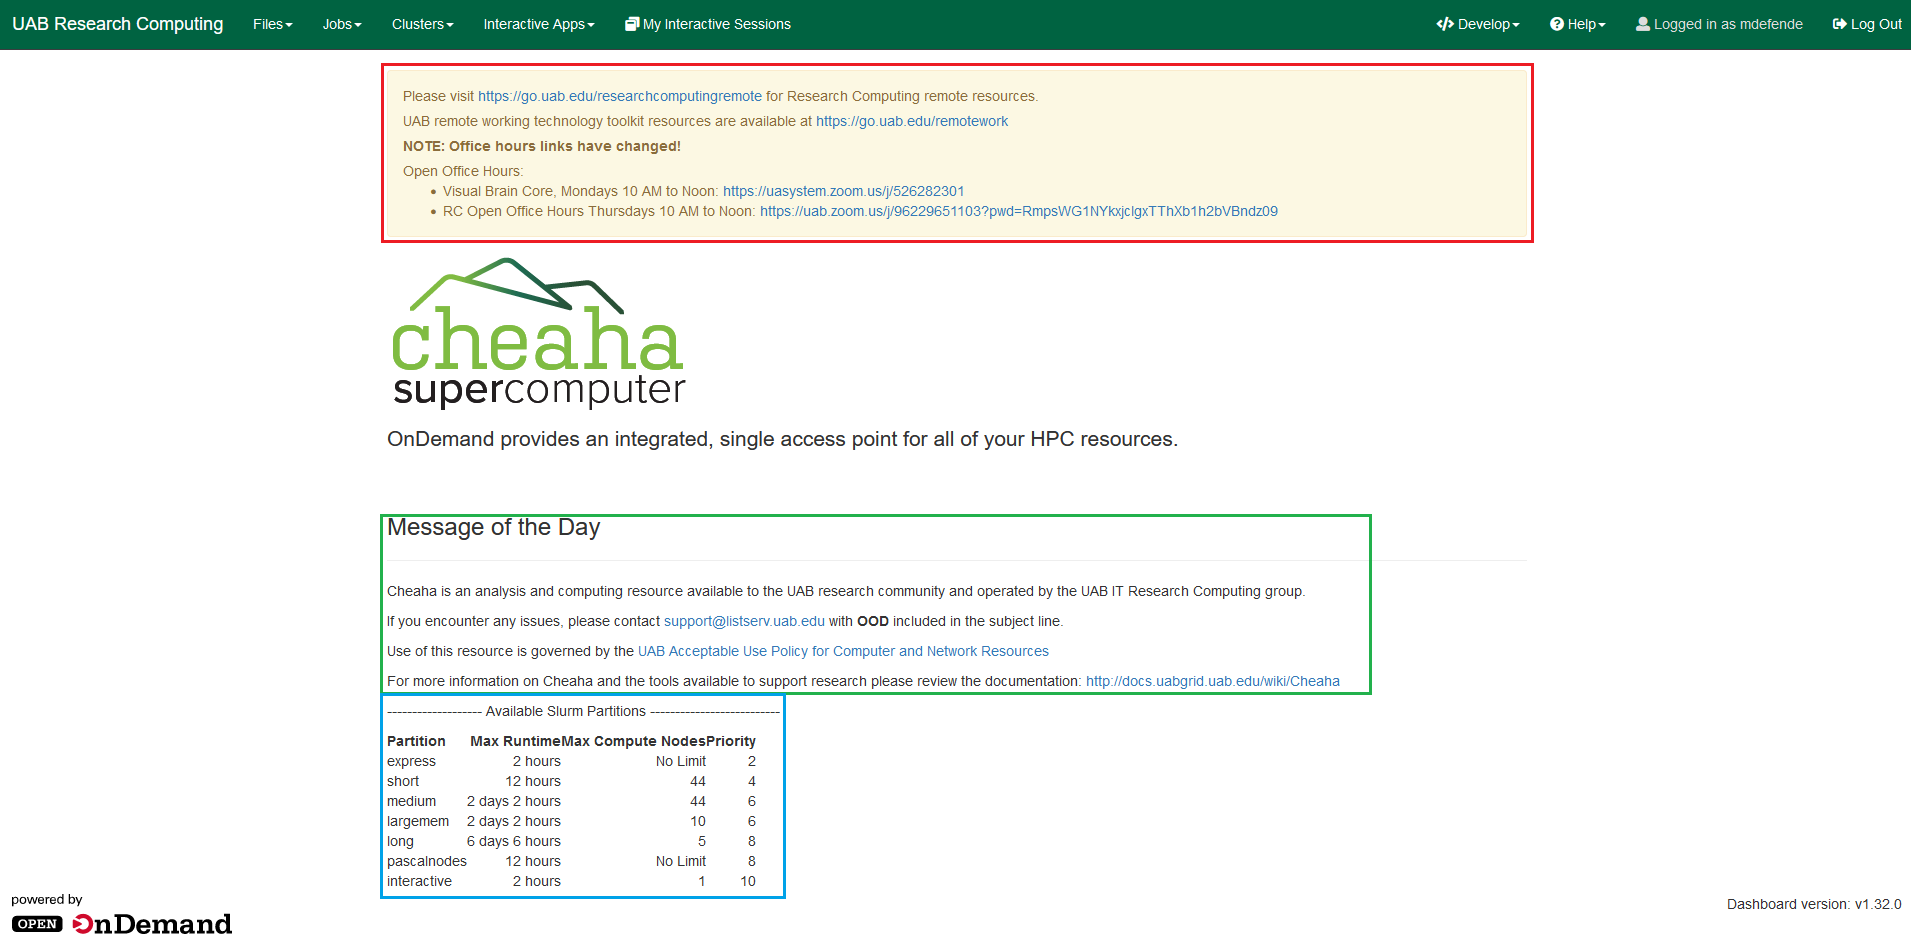
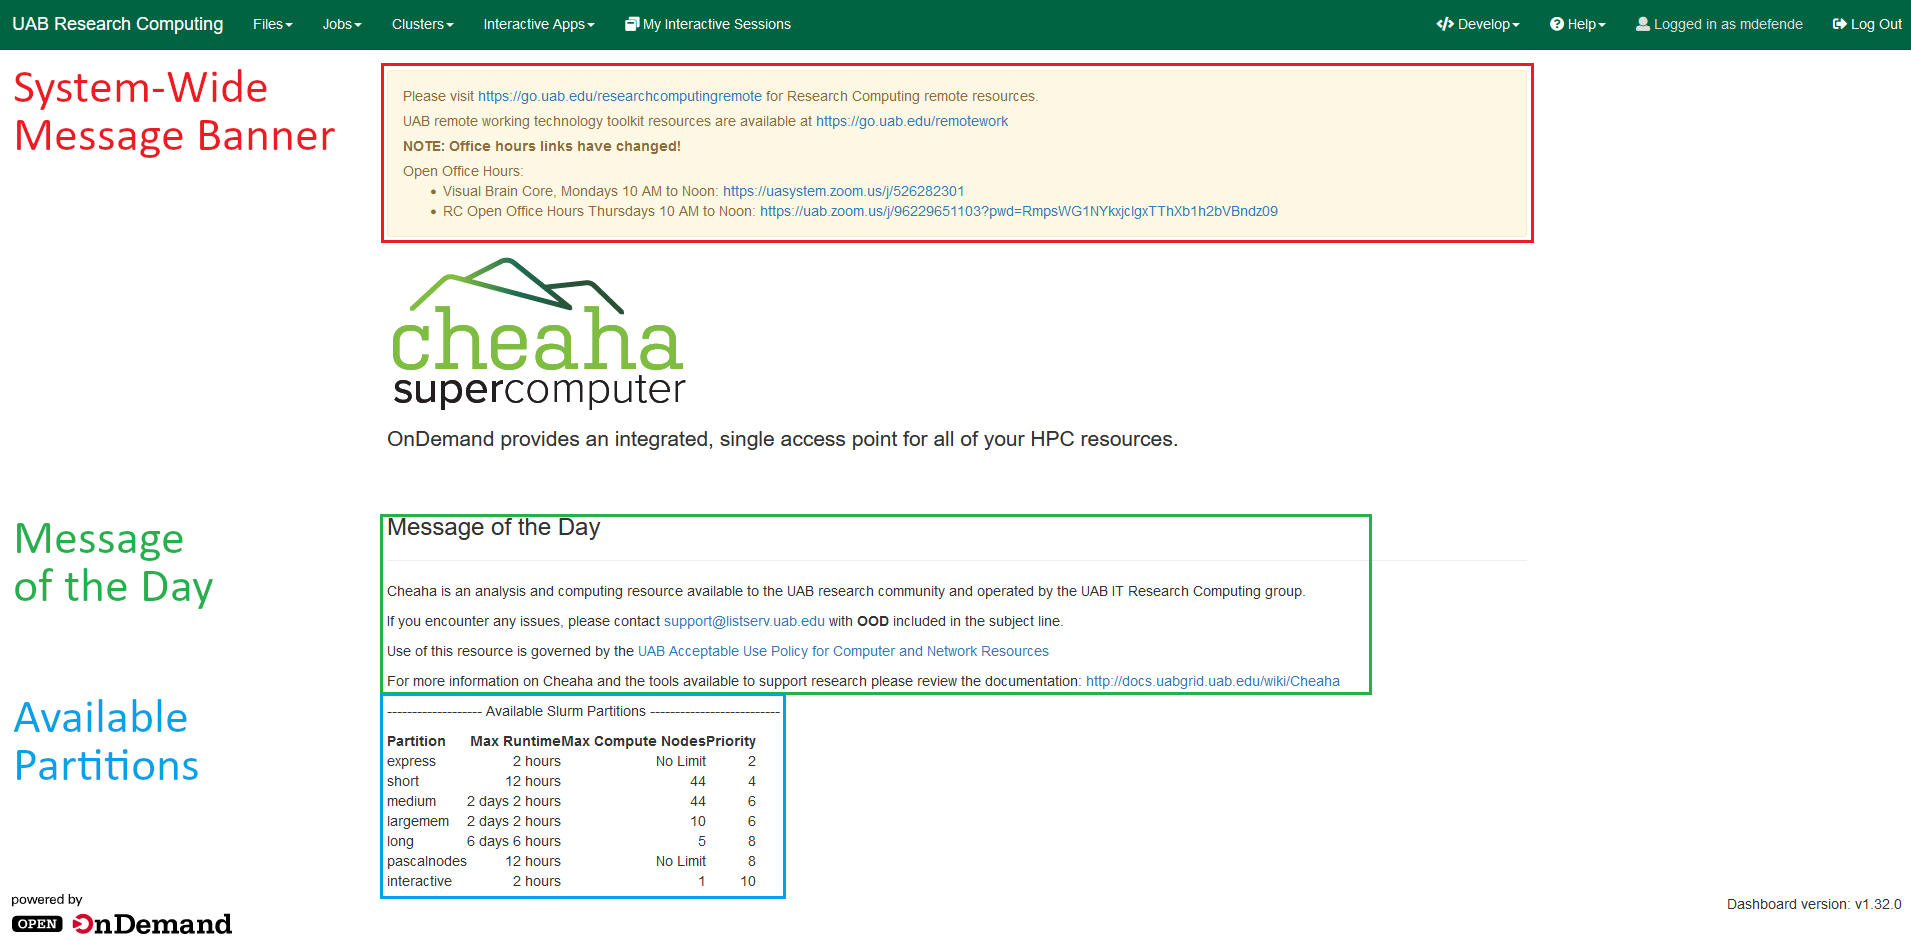
add ood index page

Changed region(s): [[0.0, 0.0617, 0.1852, 0.1851], [0.0, 0.7404, 0.1235, 0.833], [0.0, 0.5553, 0.1235, 0.6479]]

diff --git a/docs/account_management/cheaha_account.md b/docs/account_management/cheaha_account.md
@@ -4,7 +4,7 @@ These instructions are intended to guide researchers on creating and managing th
 
 ## Creating a New Account
 
-Creating a new account is a simple, automated, self-service process. To start, navigate to <https://rc.uab.edu>, our [Open OnDemand](../cheaha/open_ondemand/ood_main.md) web portal, and authenticate. The authentication process differs depending on your affiliation, but all Cheaha accounts are authenticated using Single Sign-on (SSO). Accounts are available to researchers with the following affiliations.
+Creating a new account is a simple, automated, self-service process. To start, navigate to <https://rc.uab.edu>, our [Open OnDemand](../cheaha/open_ondemand/index.md) web portal, and authenticate. The authentication process differs depending on your affiliation, but all Cheaha accounts are authenticated using Single Sign-on (SSO). Accounts are available to researchers with the following affiliations.
 
 - **UAB Campus**: authenticate with your BlazerID credentials.
 - **UAB Medicine (UABMC)**: authenticate with your BlazerID credentials. UABMC credentials are not supported.
@@ -16,7 +16,7 @@ Once you have authenticated, you should see a page that looks like the following
 
 The form should be prefilled with your BlazerID or XIAS ID, full name, and email address. If any of these details are incorrect please [Contact Support](../help/support.md). Please also fill out the reason you wish to create an account. To create a Cheaha account, you must check both boxes affirming your acceptance of relevant UAB IT policies. Until both boxes are checked, the "Create Account" button will not be usable.
 
-When you are ready, click "Create Account" to start the account creation process. You should see a popup notification that looks like the following. After a few moments you should be redirected to our [Open OnDemand](../cheaha/open_ondemand/ood_main.md) web portal. If not, please [Contact Support](../help/support.md).
+When you are ready, click "Create Account" to start the account creation process. You should see a popup notification that looks like the following. After a few moments you should be redirected to our [Open OnDemand](../cheaha/open_ondemand/index.md) web portal. If not, please [Contact Support](../help/support.md).
 
 ![!Account creation notification popup](images/uab_self_register_002.png)
 
@@ -34,7 +34,7 @@ If your account is in good standing you should see a page like the following.
 
 ### Account Requires Certification
 
-We review accounts periodically to ensure the system is being used fairly and as intended. Part of this process is to certify that researchers with accounts still wish to make use of Cheaha. Once per year every researcher will be required to certify their account before making use of Cheaha. If you account requires certification, when logging in to our [Open OnDemand](../cheaha/open_ondemand/ood_main.md) web portal you will see the following notification page.
+We review accounts periodically to ensure the system is being used fairly and as intended. Part of this process is to certify that researchers with accounts still wish to make use of Cheaha. Once per year every researcher will be required to certify their account before making use of Cheaha. If you account requires certification, when logging in to our [Open OnDemand](../cheaha/open_ondemand/index.md) web portal you will see the following notification page.
 
 ![!Account certification notification page.](images/uab_certify_001.png).
 

diff --git a/docs/cheaha/open_ondemand/index.md b/docs/cheaha/open_ondemand/index.md
@@ -8,7 +8,7 @@ You will find system-wide messages from admins at the tope of the page (red outl
 
 In the middle of the page (green outline), you will see a Message of the Day containing the email address for support if you are having any issues with Cheaha. There are also links to our Acceptable Use Policy as well as links to our documentation.
 
-Lastly, there is a table with a list of available SLURM partitions on Cheaha with their max runtime and number of compute nodes per job as well as their priority. Use this table to plan job requests based on your needed computational resources.
+Lastly, there is a table with a list of available SLURM partitions (blue outline) on Cheaha with their max runtime and number of compute nodes per job as well as their priority. Use this table to plan job requests based on your needed computational resources.
 
 ## Toolbar
 
@@ -30,3 +30,17 @@ To use a shell terminal in Cheaha through OOD, click `Clusters >> >_Cheaha Shell
 
     Using the shell terminal in this way puts you on the login node. Do not run any compute tasks on the login node. Request a compute node first!
 <!-- markdownlint-enable MD046 -->
+
+## File Browser
+
+For more information on using the Open OnDemand file browser please see our [File Browser](ood_files.md) page.
+
+## Interactive Apps
+
+We have several interactive applications available, and making your own interactive apps is also possible. For our current offerings please see our [Interactive Apps](ood_interactive.md) page.
+
+## Job Composer
+
+Open OnDemand offers a SLURM Job Composer that can be helpful for writing and starting certain kinds of jobs without a terminal. Note that while this method is useful for single and simple jobs, it is less suitable for jobs at large scales or jobs that need to be shared with collaborators. The Job Composer may also be used to monitor your actively running jobs without a terminal.
+
+Please see our [Job Composer](images/ood_active_jobs.png) page for more information.

diff --git a/docs/cheaha/slurm/submitting_jobs.md b/docs/cheaha/slurm/submitting_jobs.md
@@ -190,7 +190,7 @@ For more details on using `srun` please see the [official documentation](https:/
 
 ## Graphical Interactive Jobs
 
-It is highly recommended to use the [Open OnDemand](../open_ondemand/ood_main.md) web portal for [interactive apps](../open_ondemand/ood_interactive.md). Interactive sessions for certain software such as MATLAB and RStudio can be created directly from the browser while an HPC Desktop is available to access all of the other software on Cheaha. A terminal is also available through Open OnDemand.
+It is highly recommended to use the [Open OnDemand](../open_ondemand/index.md) web portal for [interactive apps](../open_ondemand/ood_interactive.md). Interactive sessions for certain software such as MATLAB and RStudio can be created directly from the browser while an HPC Desktop is available to access all of the other software on Cheaha. A terminal is also available through Open OnDemand.
 
 It is possible to use other remote desktop software, such as VNC, to start and interact with jobs. These methods are not officially supported and we do not have the capacity to help with remote desktop connections. Instead, please consider switching your workflow to use the [Open OnDemand HPC Desktop](../open_ondemand/ood_interactive.md#my-interactive-sessions). If you are unable to use this method, please contact [Support](../../help/support.md).
 

diff --git a/docs/cheaha/index.md b/docs/cheaha/index.md
@@ -18,7 +18,7 @@ The primary method for accessing Cheaha is through our online portal website, Op
 
 ## Open OnDemand Features
 
-The Open OnDemand portal features a [file browser](./open_ondemand/ood_files.md), [job composer](./open_ondemand/ood_jobs.md) and various [interactive applications](./open_ondemand/ood_interactive.md) including a remote desktop, Jupyter, RStudio and MATLAB, among others. There is also a [terminal](./open_ondemand/ood_main.md#shell-access) usable directly in the browser for very basic functions such as file management. More detailed documentation may be found on our [Open OnDemand page](./open_ondemand/ood_main.md).
+The Open OnDemand portal features a [file browser](open_ondemand/ood_files.md), [job composer](open_ondemand/ood_jobs.md) and various [interactive applications](open_ondemand/ood_interactive.md) including a remote desktop, Jupyter, RStudio and MATLAB, among others. There is also a [terminal](open_ondemand/index.md#shell-access) usable directly in the browser for very basic functions such as file management. More detailed documentation may be found on our [Open OnDemand page](open_ondemand/index.md).
 
 ## Hardware
 

diff --git a/docs/cheaha/software/software.md b/docs/cheaha/software/software.md
@@ -43,7 +43,7 @@ Anaconda on Cheaha works like it does on any other system, once the module has b
 
     Do not use `conda init` on Cheaha! Anaconda is managed as a [module](./modules.md), including script setup. Using `conda init` at any point can cause hard-to-diagnose issues with [Open OnDemand Interactive Jobs](../open_ondemand/ood_interactive.md). Please see [this ask.ci FAQ](https://ask.cyberinfrastructure.org/t/why-do-i-get-an-error-when-launching-an-open-ondemand-hpc-interactive-session/2496/2) for how to undo what `conda init` does.
 
-    If the Anaconda software instructs you to use `conda init` while on Cheaha, please ignore it to avoid future issues with [Open OnDemand](../open_ondemand/ood_main.md).
+    If the Anaconda software instructs you to use `conda init` while on Cheaha, please ignore it to avoid future issues with [Open OnDemand](../open_ondemand/index.md).
 <!-- markdownlint-disable MD046 -->
 
 For more information on usage with examples, see [Anaconda Environments](../../workflow_solutions/using_anaconda.md).

diff --git a/docs/cheaha/open_ondemand/ood_interactive.md b/docs/cheaha/open_ondemand/ood_interactive.md
@@ -230,7 +230,7 @@ Matlab has the ability to interoperate with Python from within Matlab. The offic
 
 This section is dedicated to using this feature with Anaconda on Cheaha. To use Python contained in an Anaconda Environment within Matlab, please use the following steps.
 
-1. Create an [HPC Interactive Desktop Job](#interactive-apps) using [Open OnDemand](ood_main.md).
+1. Create an [HPC Interactive Desktop Job](#interactive-apps) using [Open OnDemand](index.md).
 2. Open a terminal in that job. The following steps should all be run in this terminal unless otherwise specified.
 3. [Load the Anaconda Module](../software/software.md#anaconda-on-cheaha).
 4. [Create an Environment](../../workflow_solutions/using_anaconda.md#using-anaconda) in Anaconda with the packages needed.
